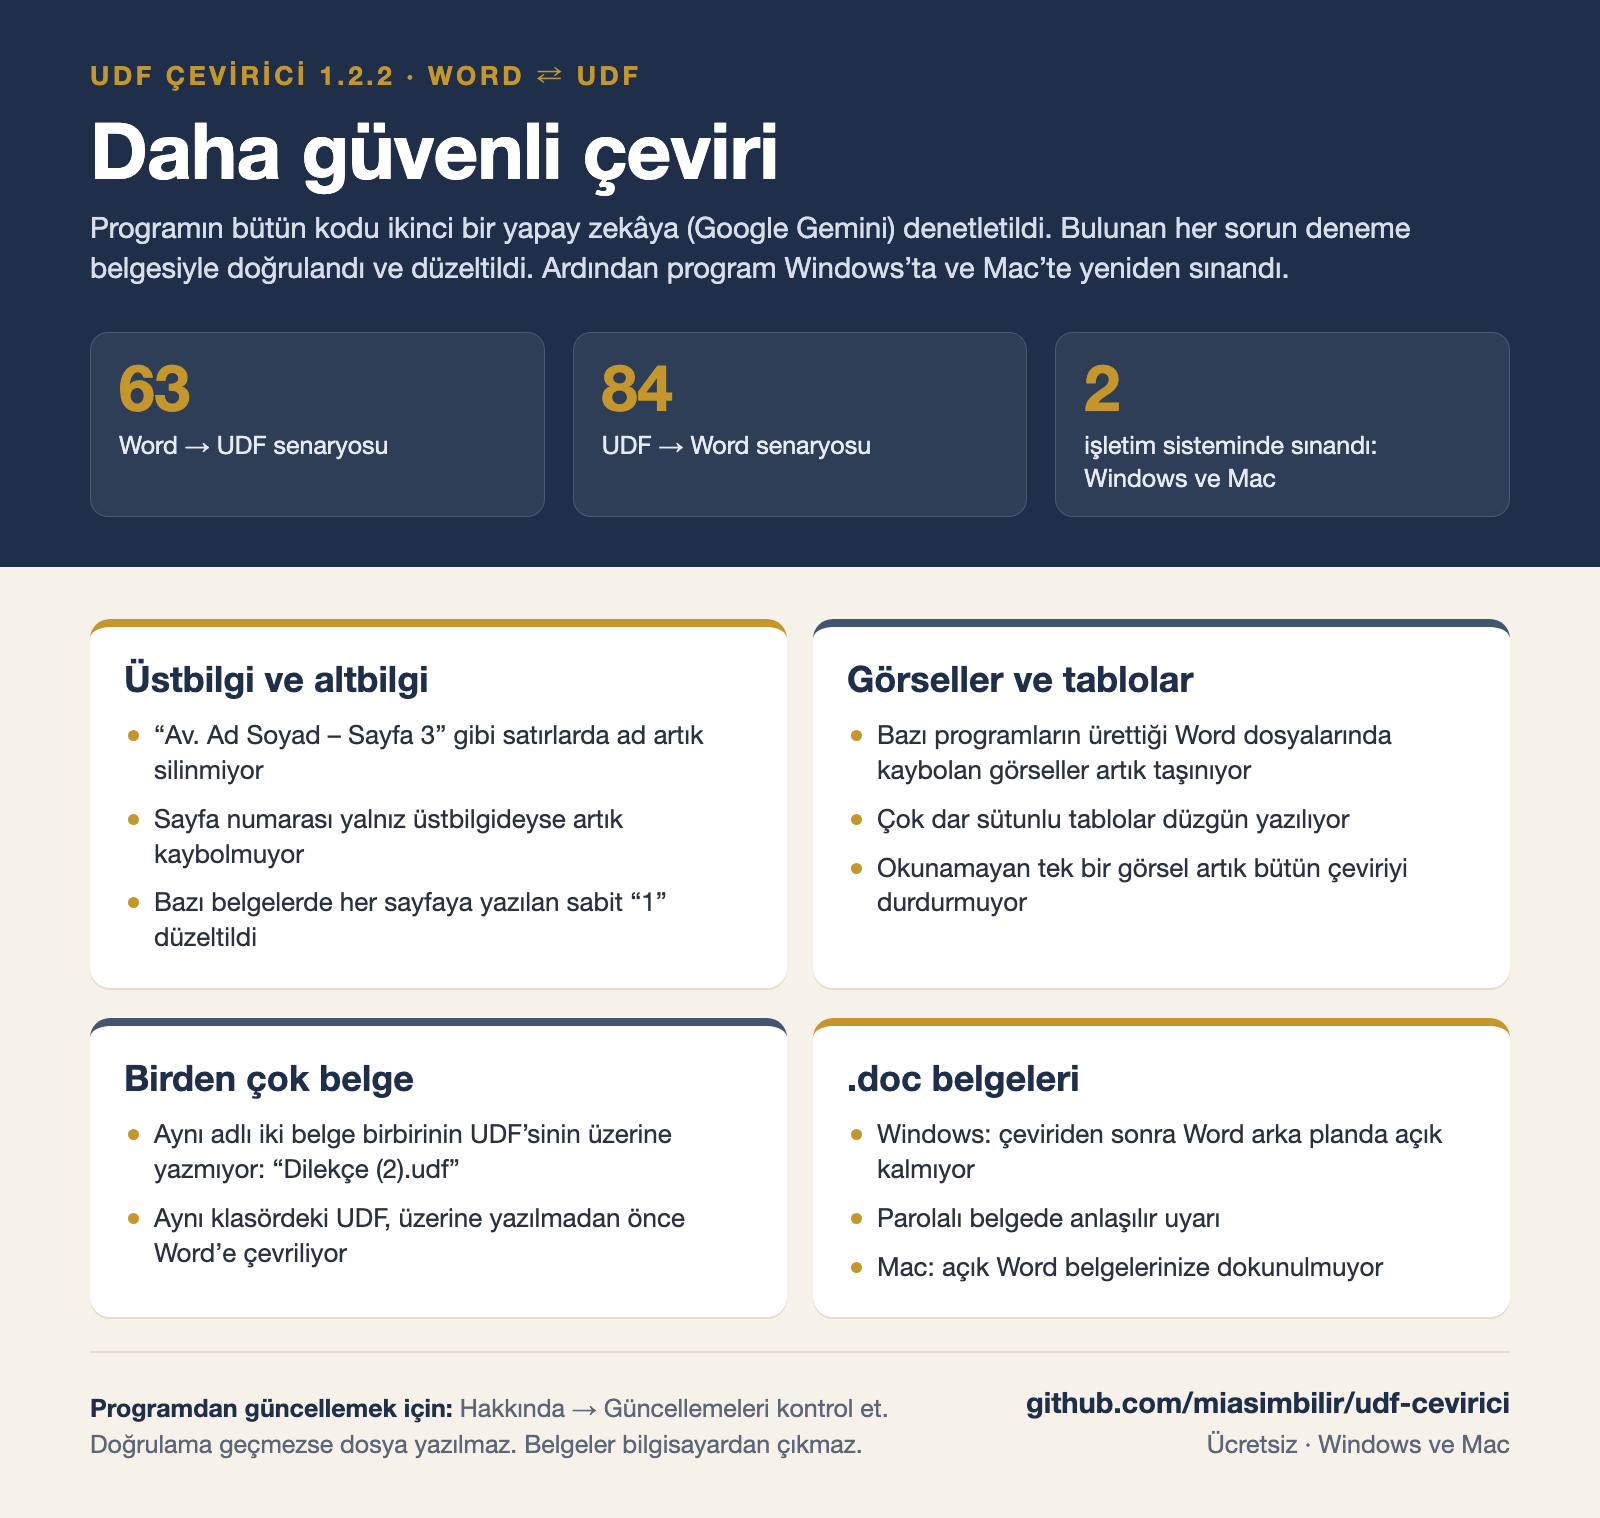
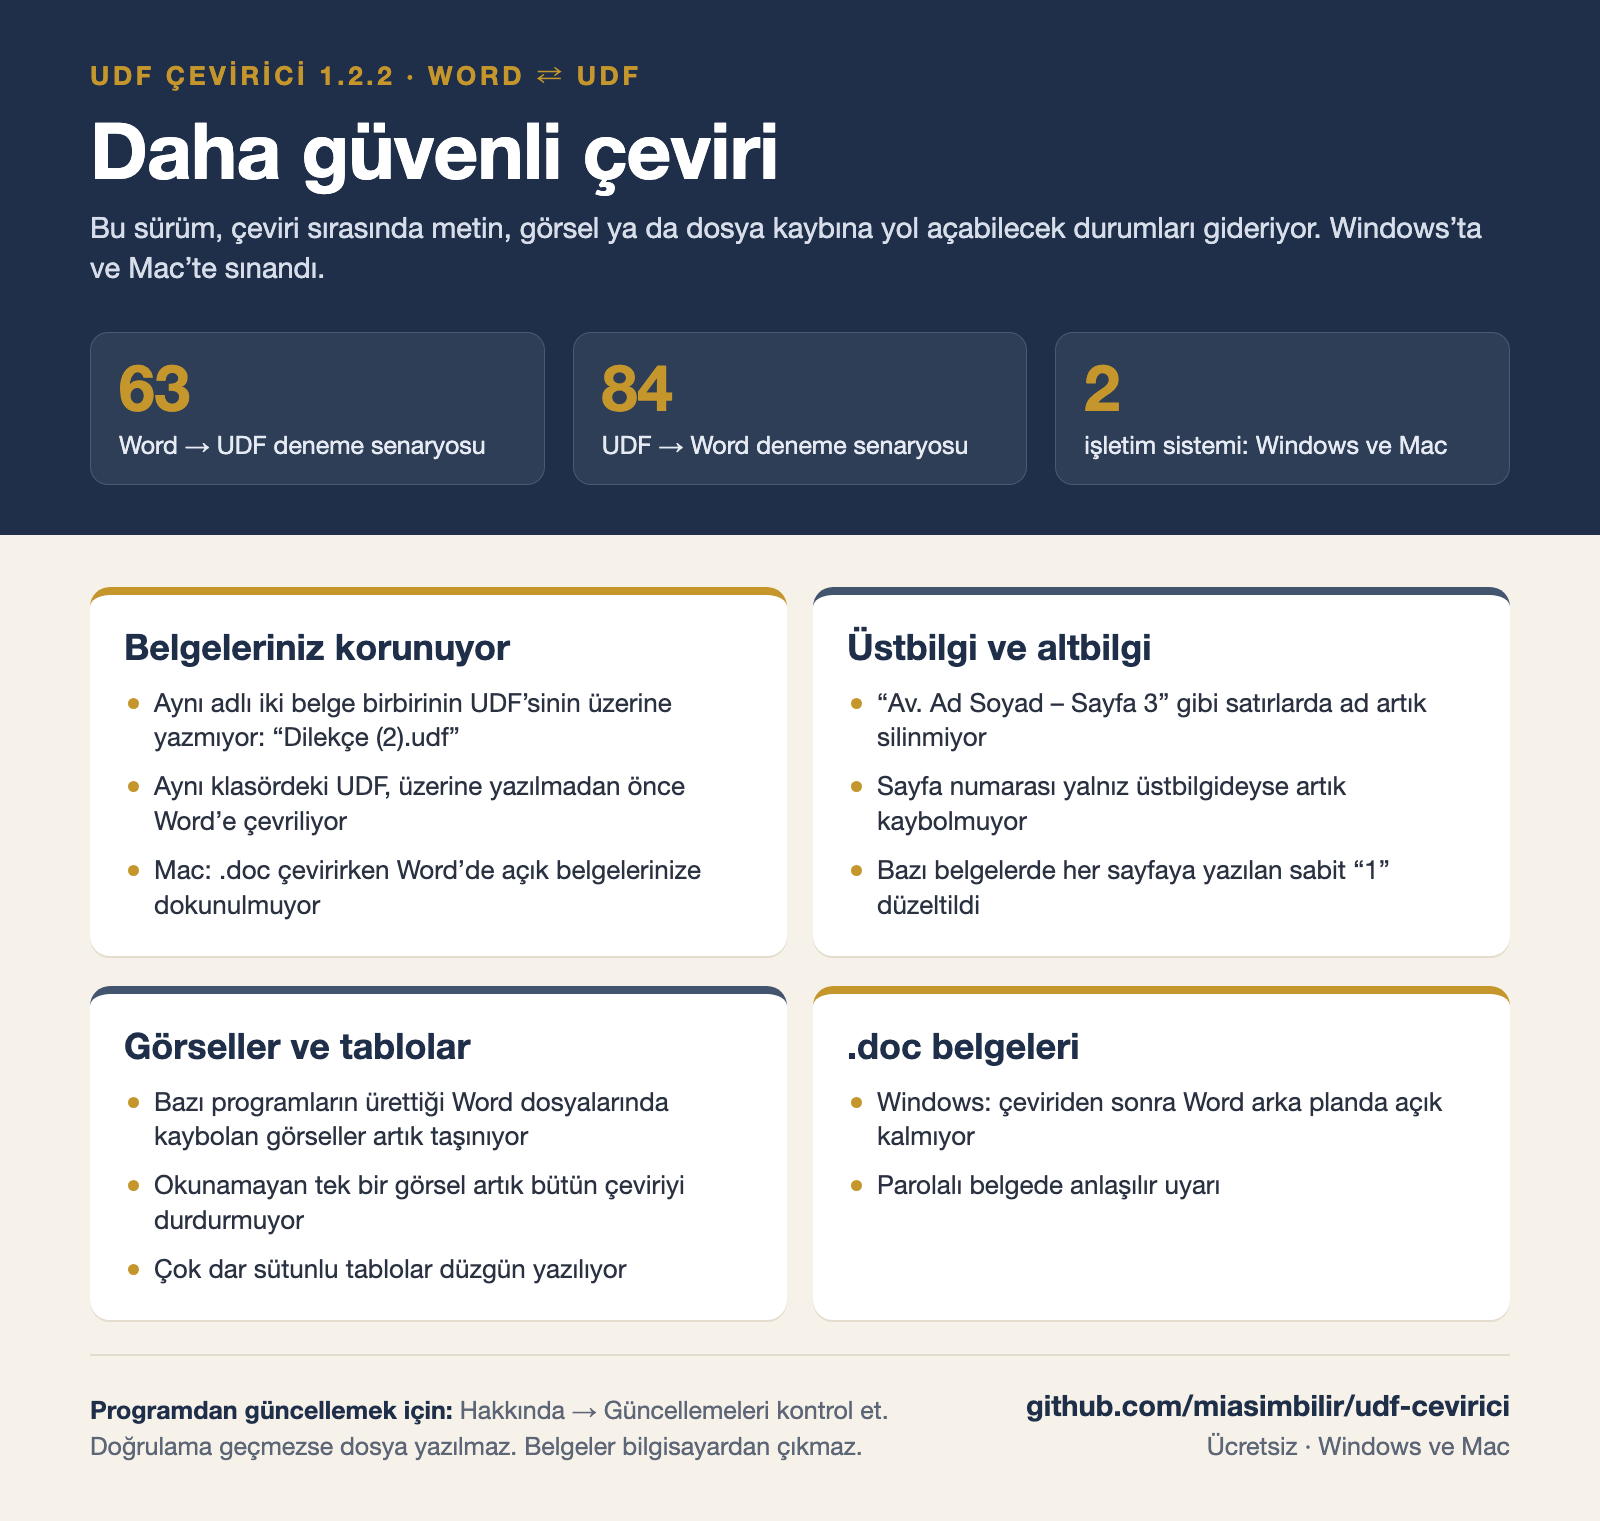
Yenilikler görseli: yeniliklere odaklı metin

diff --git a/gorseller/yenilikler-1.2.2.html b/gorseller/yenilikler-1.2.2.html
@@ -28,29 +28,29 @@ body{width:1600px;background:var(--zemin);font-family:-apple-system,"Helvetica N
 <div class="ust">
   <div class="etiket">UDF Çevirici 1.2.2 · Word ⇄ UDF</div>
   <h1>Daha güvenli çeviri</h1>
-  <p>Programın bütün kodu ikinci bir yapay zekâya (Google Gemini) denetletildi. Bulunan her sorun deneme belgesiyle doğrulandı ve düzeltildi. Ardından program Windows’ta ve Mac’te yeniden sınandı.</p>
+  <p>Bu sürüm, çeviri sırasında metin, görsel ya da dosya kaybına yol açabilecek durumları gideriyor. Windows’ta ve Mac’te sınandı.</p>
 </div>
 <div class="sayilar">
-  <div class="sayi"><b>63</b><span>Word → UDF senaryosu</span></div>
-  <div class="sayi"><b>84</b><span>UDF → Word senaryosu</span></div>
-  <div class="sayi"><b>2</b><span>işletim sisteminde sınandı: Windows ve Mac</span></div>
+  <div class="sayi"><b>63</b><span>Word → UDF deneme senaryosu</span></div>
+  <div class="sayi"><b>84</b><span>UDF → Word deneme senaryosu</span></div>
+  <div class="sayi"><b>2</b><span>işletim sistemi: Windows ve Mac</span></div>
 </div>
 <div class="izgara">
-  <div class="kart k2"><h2>Üstbilgi ve altbilgi</h2><ul>
+  <div class="kart k2"><h2>Belgeleriniz korunuyor</h2><ul>
+    <li>Aynı adlı iki belge birbirinin UDF’sinin üzerine yazmıyor: “Dilekçe (2).udf”</li>
+    <li>Aynı klasördeki UDF, üzerine yazılmadan önce Word’e çevriliyor</li>
+    <li>Mac: .doc çevirirken Word’de açık belgelerinize dokunulmuyor</li></ul></div>
+  <div class="kart"><h2>Üstbilgi ve altbilgi</h2><ul>
     <li>“Av. Ad Soyad – Sayfa 3” gibi satırlarda ad artık silinmiyor</li>
     <li>Sayfa numarası yalnız üstbilgideyse artık kaybolmuyor</li>
     <li>Bazı belgelerde her sayfaya yazılan sabit “1” düzeltildi</li></ul></div>
   <div class="kart"><h2>Görseller ve tablolar</h2><ul>
     <li>Bazı programların ürettiği Word dosyalarında kaybolan görseller artık taşınıyor</li>
-    <li>Çok dar sütunlu tablolar düzgün yazılıyor</li>
-    <li>Okunamayan tek bir görsel artık bütün çeviriyi durdurmuyor</li></ul></div>
-  <div class="kart"><h2>Birden çok belge</h2><ul>
-    <li>Aynı adlı iki belge birbirinin UDF’sinin üzerine yazmıyor: “Dilekçe (2).udf”</li>
-    <li>Aynı klasördeki UDF, üzerine yazılmadan önce Word’e çevriliyor</li></ul></div>
+    <li>Okunamayan tek bir görsel artık bütün çeviriyi durdurmuyor</li>
+    <li>Çok dar sütunlu tablolar düzgün yazılıyor</li></ul></div>
   <div class="kart k2"><h2>.doc belgeleri</h2><ul>
     <li>Windows: çeviriden sonra Word arka planda açık kalmıyor</li>
-    <li>Parolalı belgede anlaşılır uyarı</li>
-    <li>Mac: açık Word belgelerinize dokunulmuyor</li></ul></div>
+    <li>Parolalı belgede anlaşılır uyarı</li></ul></div>
 </div>
 <div class="alt">
   <div class="sol"><b>Programdan güncellemek için:</b> Hakkında → Güncellemeleri kontrol et. Doğrulama geçmezse dosya yazılmaz. Belgeler bilgisayardan çıkmaz.</div>
